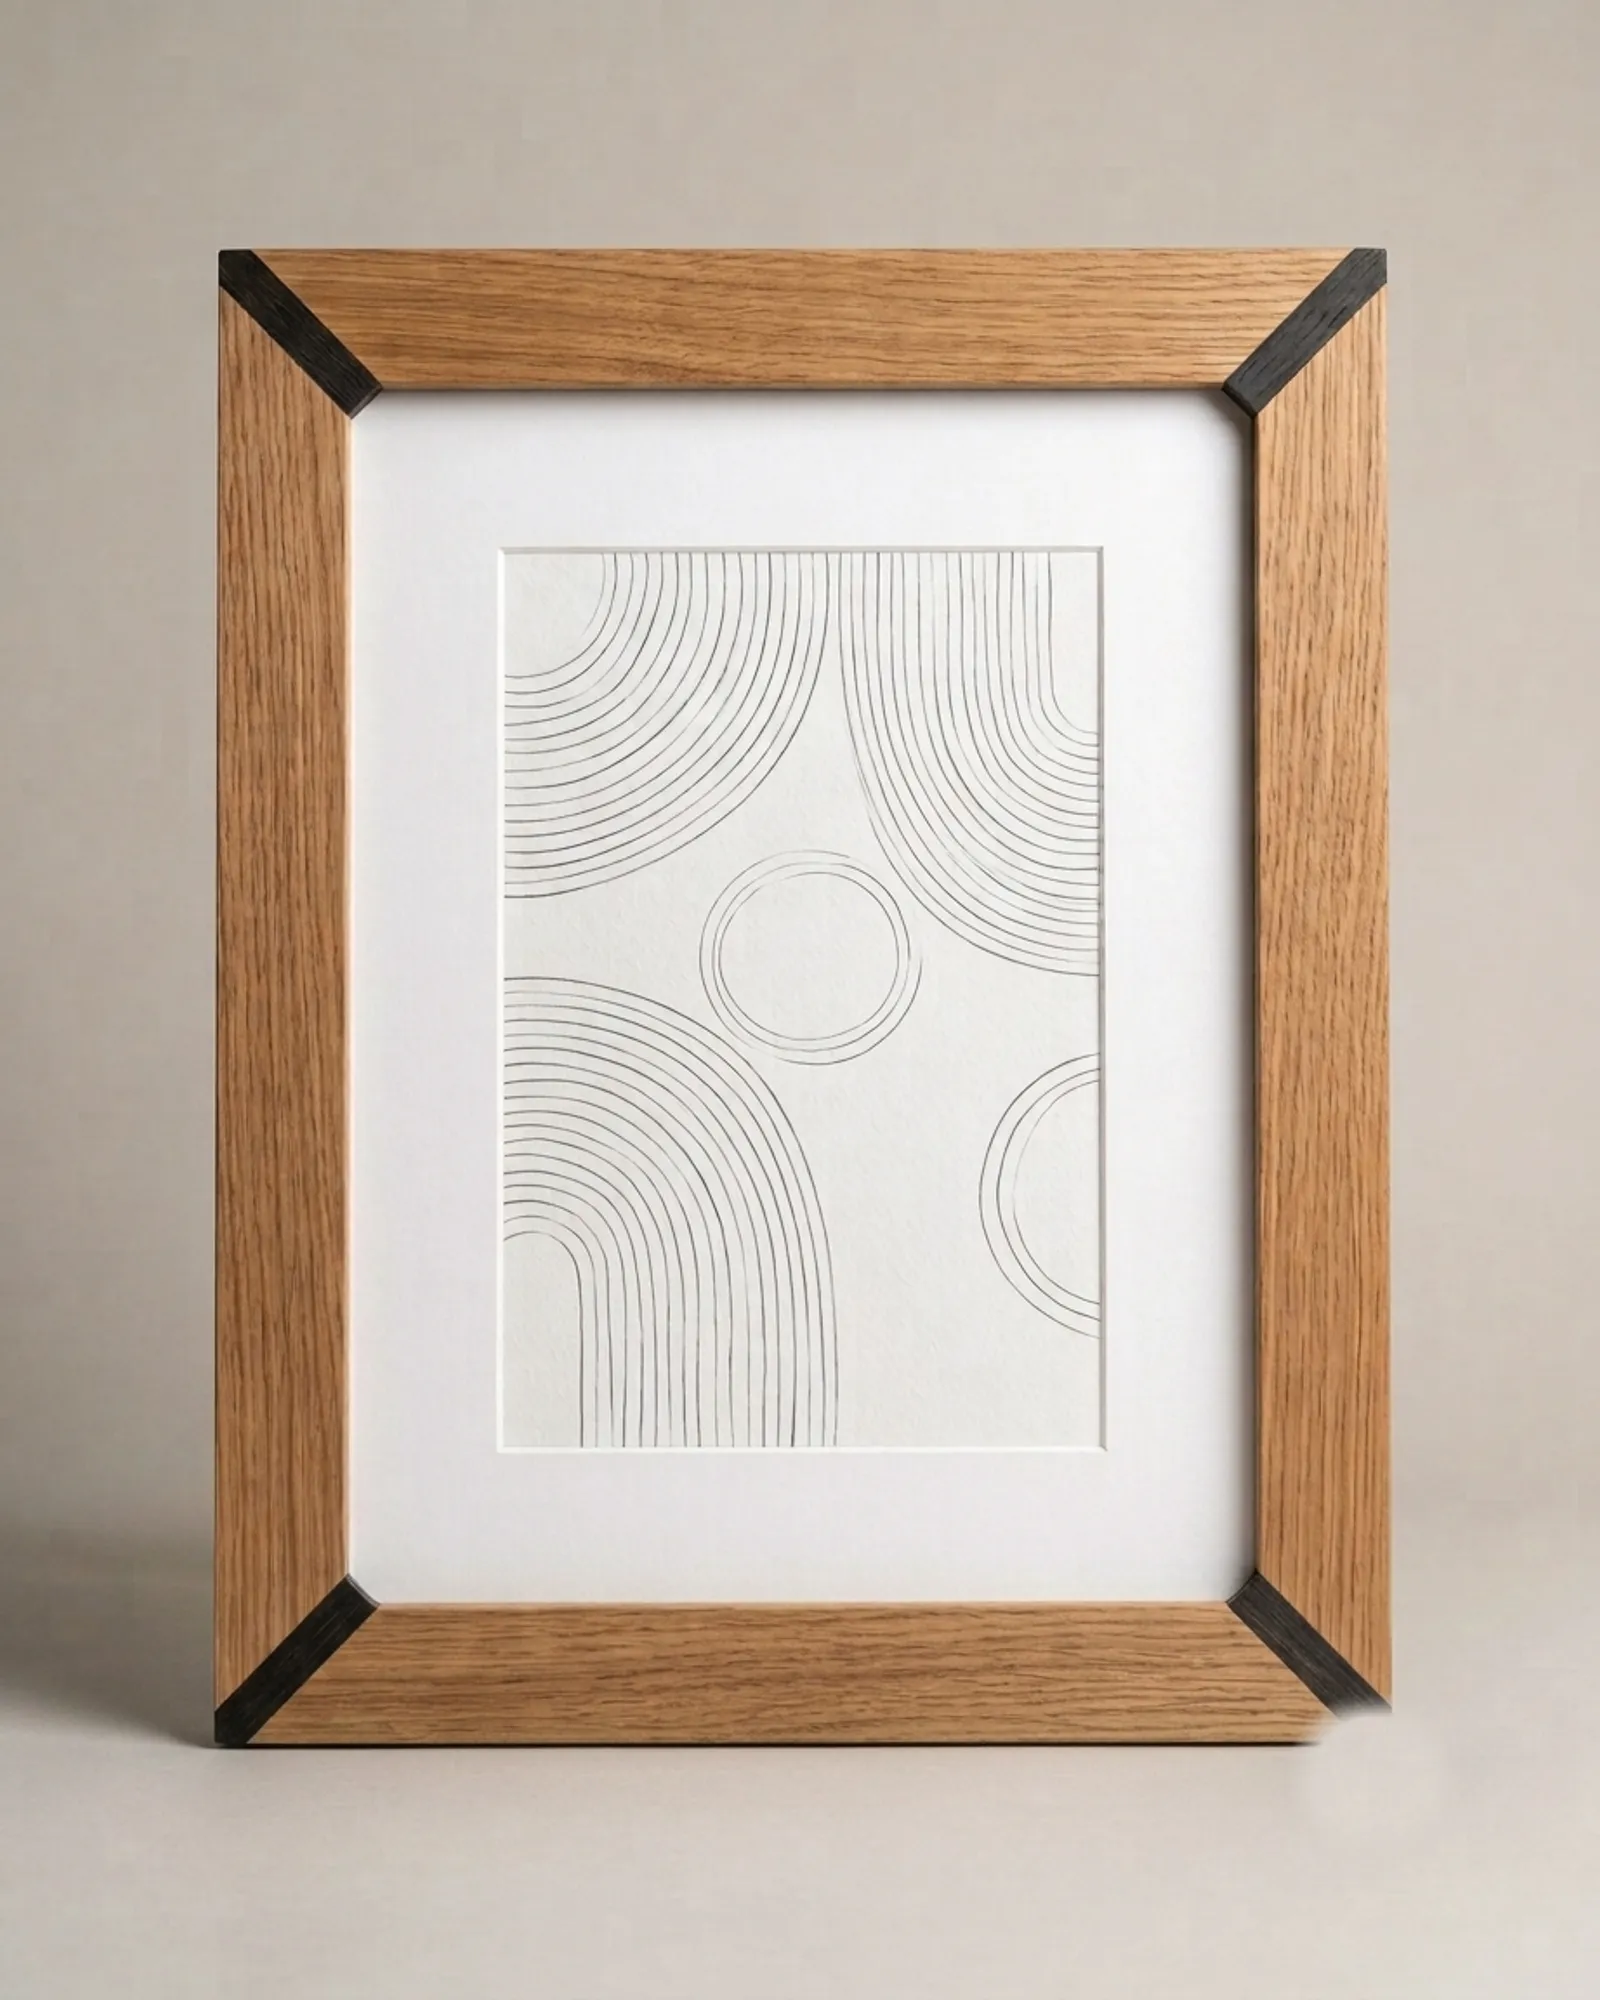
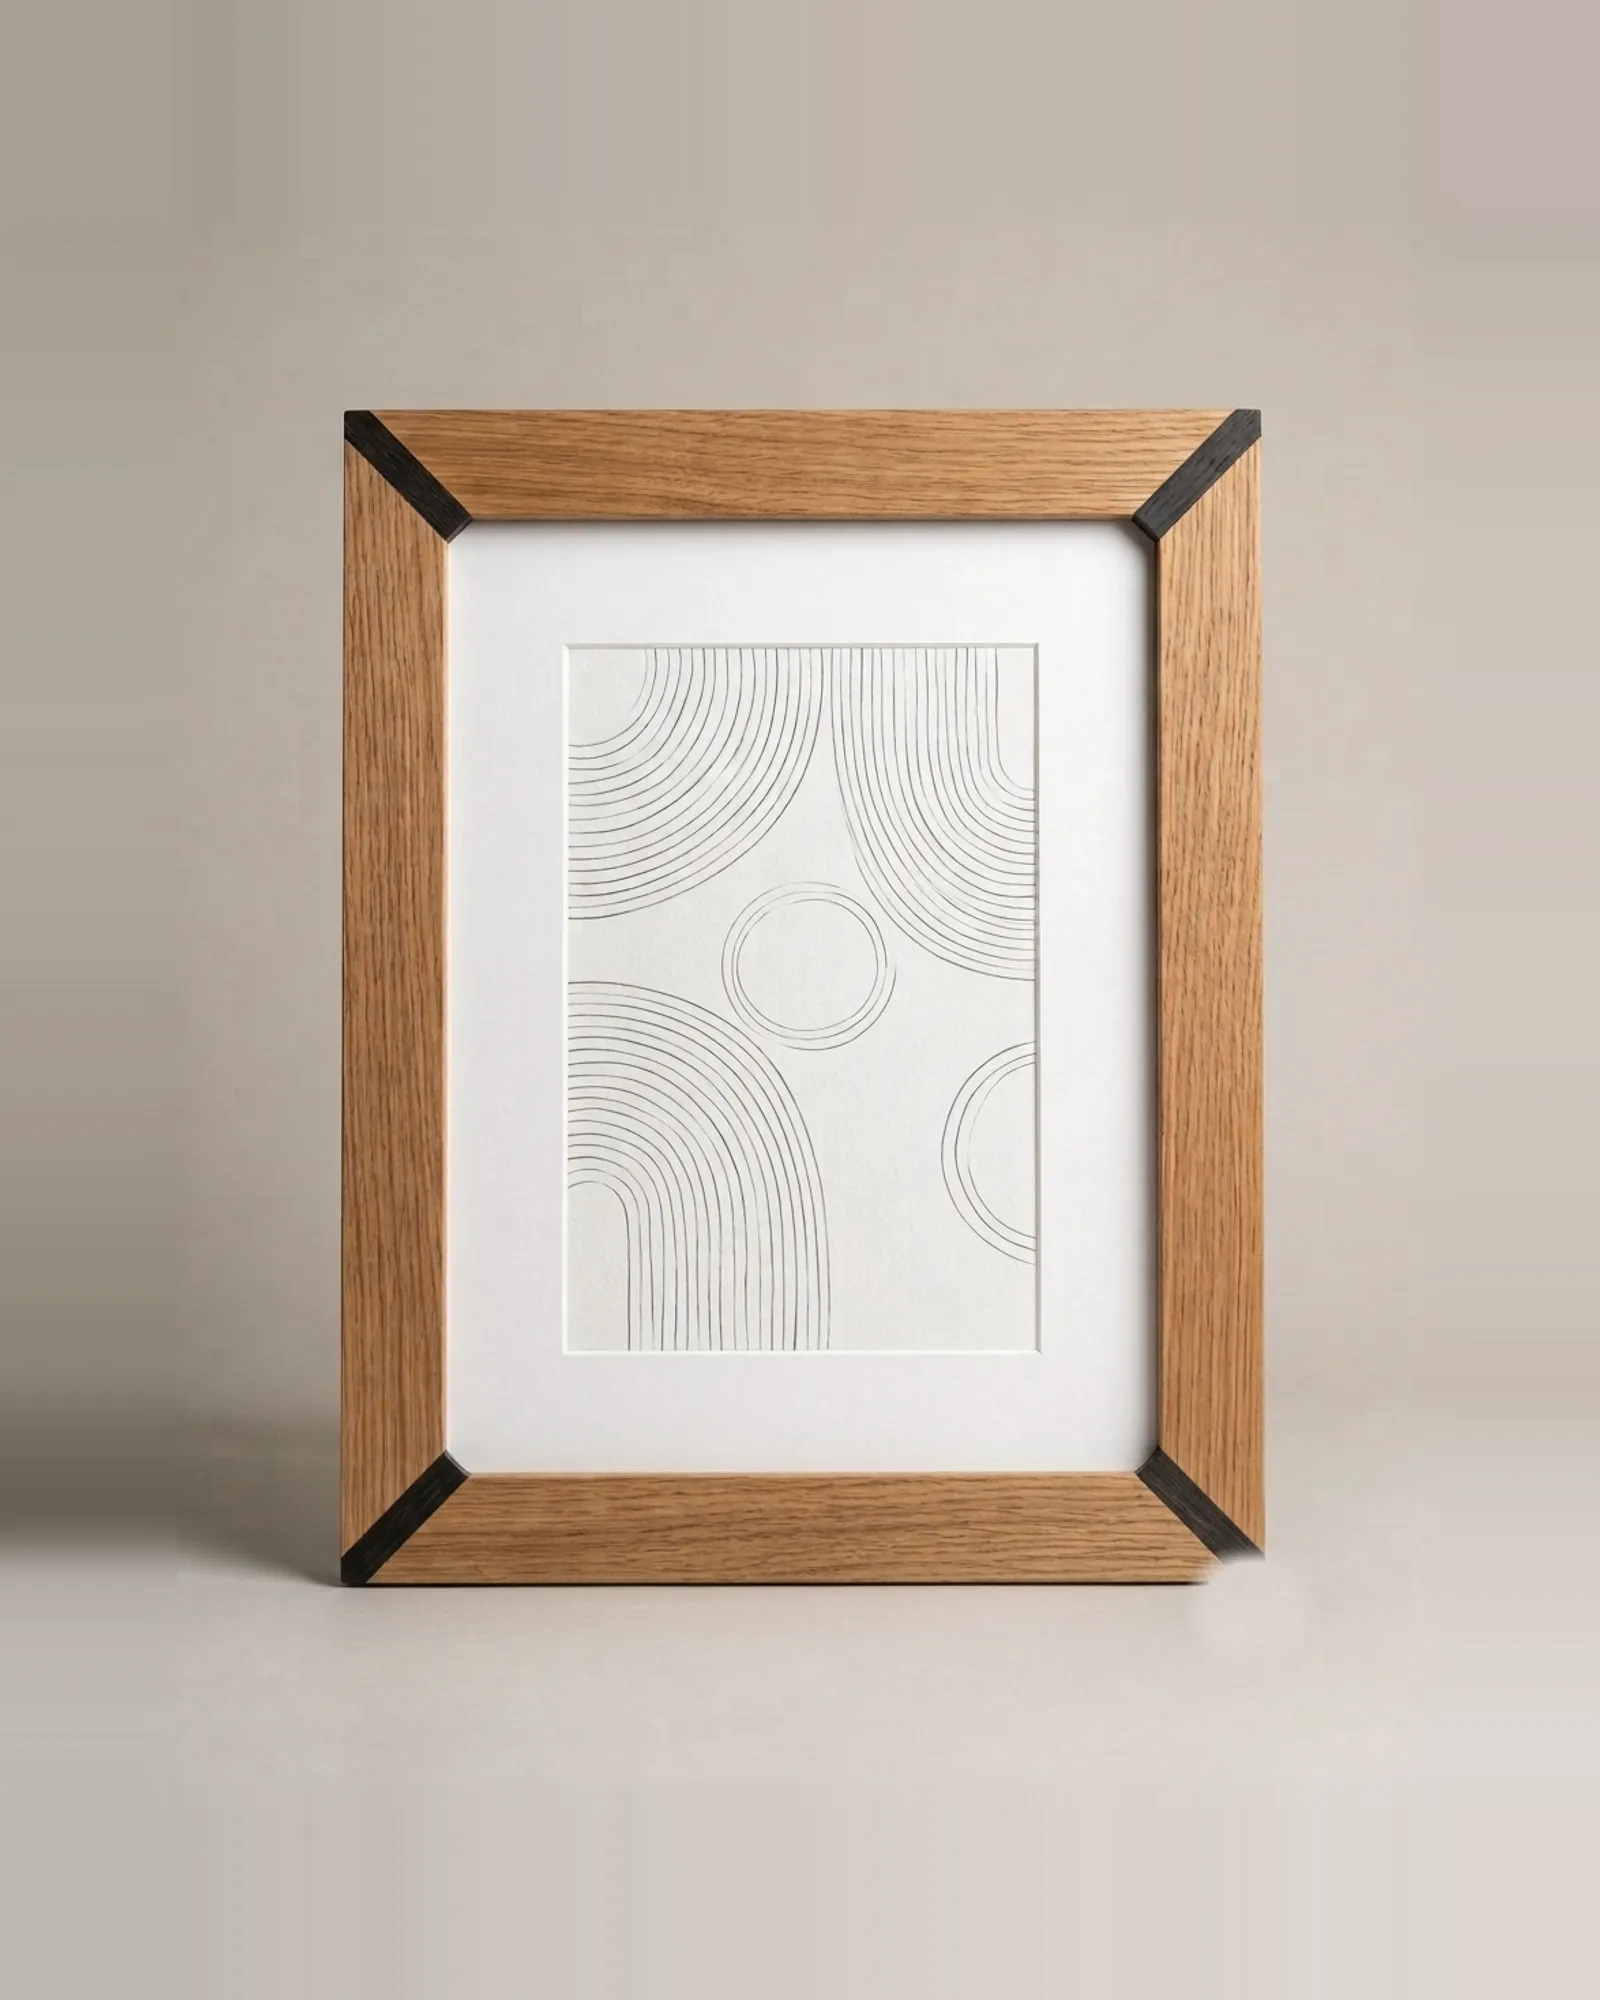
fix: full frames visible in every image container (#78)
Studio shots were cover-cropped in wide containers (shop card 1.4:1,
PDP up to 1.3:1 on wide screens), cutting the product's top and bottom.
Three-part fix: studio images re-composed with extended backdrop
margins (frame now spans 60% of height, safe to ~1.33 containers),
shop card switched from fixed heights to a true 4:5 box, and lifestyle
crops biased upward (center 15%) since those frames hang high in the
scene with spare room below.

diff --git a/src/components/ProductSection.tsx b/src/components/ProductSection.tsx
@@ -52,10 +52,10 @@ function ProductSection({
             className={`absolute inset-0 bg-cover bg-center transition-opacity duration-700 ${hovered ? "opacity-0" : "opacity-100"}`}
             style={{ backgroundImage: `url(${imageUrl})` }}
           />
-          {/* Lifestyle image — visible on hover */}
+          {/* Lifestyle image — visible on hover; frame sits high in the scene, so bias the crop upward */}
           <div
-            className={`absolute inset-0 bg-cover bg-center transition-opacity duration-700 ${hovered ? "opacity-100" : "opacity-0"}`}
-            style={{ backgroundImage: `url(${lifestyleImageUrl})` }}
+            className={`absolute inset-0 bg-cover transition-opacity duration-700 ${hovered ? "opacity-100" : "opacity-0"}`}
+            style={{ backgroundImage: `url(${lifestyleImageUrl})`, backgroundPosition: "center 15%" }}
           />
         </div>
 

diff --git a/src/pages/ProductDetail.tsx b/src/pages/ProductDetail.tsx
@@ -86,9 +86,10 @@ function ProductDetails() {
           className={`absolute inset-6 md:inset-10 bg-cover bg-center transition-opacity duration-700 ${hovered ? "opacity-0" : "opacity-100"}`}
           style={{ backgroundImage: `url(${product.imageUrl})` }}
         />
+        {/* Lifestyle frame sits high in the scene, so bias the crop upward */}
         <div
-          className={`absolute inset-6 md:inset-10 bg-cover bg-center transition-opacity duration-700 ${hovered ? "opacity-100" : "opacity-0"}`}
-          style={{ backgroundImage: `url(${product.lifestyleImageUrl})` }}
+          className={`absolute inset-6 md:inset-10 bg-cover transition-opacity duration-700 ${hovered ? "opacity-100" : "opacity-0"}`}
+          style={{ backgroundImage: `url(${product.lifestyleImageUrl})`, backgroundPosition: "center 15%" }}
         />
       </div>
 

diff --git a/src/pages/Shop.tsx b/src/pages/Shop.tsx
@@ -14,7 +14,7 @@ function ProductCard({ product }: { product: Product }) {
         onMouseEnter={() => setHovered(true)}
         onMouseLeave={() => setHovered(false)}
       >
-        <div className="relative h-72 md:h-125">
+        <div className="relative aspect-[4/5]">
           <div
             className={`absolute inset-0 bg-cover bg-center transition-opacity duration-700 ${hovered ? "opacity-0" : "opacity-100"}`}
             style={{ backgroundImage: `url(${product.imageUrl})` }}
